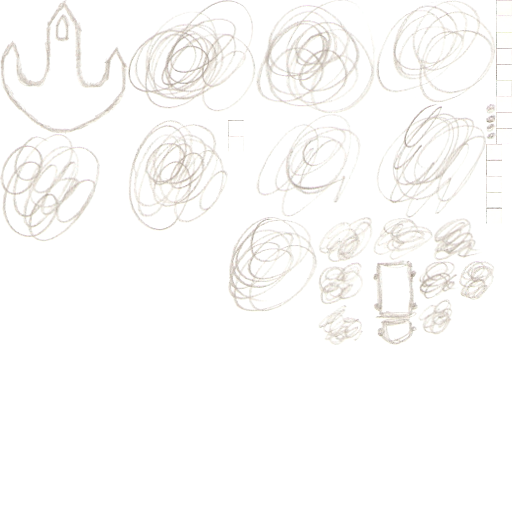
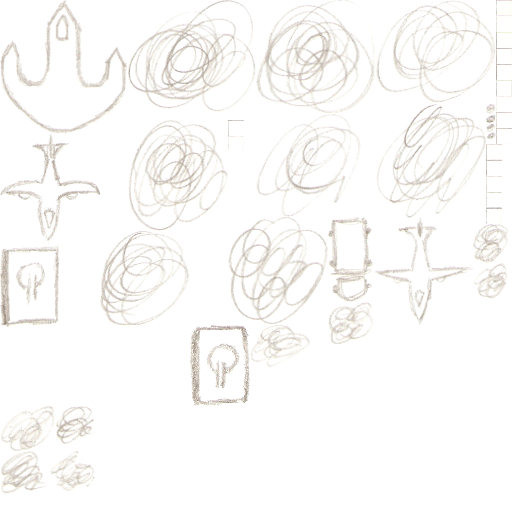
added planes and tanks

diff --git a/lib/src/shared/systems/spawning.dart b/lib/src/shared/systems/spawning.dart
@@ -16,7 +16,7 @@ class BulletSpawningSystem extends EntityProcessingSystem {
     entity.addComponent(new Cooldown(g.cooldown));
     entity.changedInWorld();
     addNewEntity(world, [new Transform.w2d(pos.x, pos.y, 0.0),
-                         new Velocity(0.4, 0.0),
+                         new Velocity(0.3, 0.0),
                          new BodyDef('bullet_${random.nextInt(4)}'),
                          new ExpirationTimer(2000.0),
                          new DestroyOnCollision(),
@@ -64,14 +64,51 @@ class DestructionExplosionSpawningSystem extends EntityProcessingSystem {
 }
 
 class TruckSpawningSystem extends IntervalEntitySystem {
-  TruckSpawningSystem() : super(2000, Aspect.getEmpty());
+  TruckSpawningSystem() : super(5000, Aspect.getEmpty());
 
   void processEntities(_) {
-    addNewEntity(world, [new Transform.w2d(random.nextDouble() * MAX_WIDTH, -20.0, 0.0),
-                         new Velocity(0.1, -PI),
+    addNewEntity(world, [new Transform.w2d(random.nextDouble() * MAX_WIDTH, -20.0, PI),
+                         new Velocity(0.05 + random.nextDouble() * 0.025, -PI),
                          new BodyDef('truck_0'),
+                         new Health(2),
+                         new ExplosionOnDestruction(),
+                         new ExpirationTimer(15000.0)]);
+  }
+}
+
+class PlaneSpawningSystem extends IntervalEntitySystem {
+  bool active = false;
+  PlaneSpawningSystem() : super(6000, Aspect.getEmpty());
+
+  void processEntities(_) {
+    addNewEntity(world, [new Transform.w2d(random.nextDouble() * MAX_WIDTH, -20.0, PI),
+                         new Velocity(0.1 + random.nextDouble() * 0.05, -PI),
+                         new BodyDef('plane_${random.nextInt(2)}'),
                          new Health(3),
                          new ExplosionOnDestruction(),
-                         new ExpirationTimer(10000.0)]);
+                         new ExpirationTimer(15000.0)]);
   }
+  void activate() {
+    active = true;
+  }
+  bool checkProcessing() => active && super.checkProcessing();
+}
+
+class TankSpawningSystem extends IntervalEntitySystem {
+  bool active = false;
+  TankSpawningSystem() : super(7000, Aspect.getEmpty());
+
+  void processEntities(_) {
+    addNewEntity(world, [new Transform.w2d(random.nextDouble() * MAX_WIDTH, -20.0, PI),
+                         new Velocity(0.06 + random.nextDouble() * 0.04, -PI),
+                         new BodyDef('tank_${random.nextInt(2)}'),
+                         new Health(5),
+                         new ExplosionOnDestruction(),
+                         new ExpirationTimer(15000.0)]);
+  }
+
+  void activate() {
+    active = true;
+  }
+  bool checkProcessing() => active && super.checkProcessing();
 }

diff --git a/web/ld27.dart b/web/ld27.dart
@@ -44,7 +44,7 @@ class Game {
     world.addManager(new PlayerManager());
 
     var entity = addNewEntity(world, [new Transform.w2d(MAX_WIDTH/2.0, MAX_HEIGHT - 100.0, 0.0), new Velocity(0.0, 0.0), new BodyDef('ship_0')]);
-    addNewEntity(world, [new Transform.w2d(MAX_WIDTH/2.0, MAX_HEIGHT - 165.0, 0.0), new Velocity(0.0, 0.0), new Gun(1, 500.0)], player: PLAYER_1);
+    addNewEntity(world, [new Transform.w2d(MAX_WIDTH/2.0, MAX_HEIGHT - 170.0, 0.0), new Velocity(0.0, 0.0), new Gun(1, 500.0)], player: PLAYER_1);
 
     tm.register(entity, PLAYER_1);
 
@@ -63,6 +63,8 @@ class Game {
     world.addSystem(new DestructionExplosionSpawningSystem());
     world.addSystem(new BulletSpawningSystem());
     world.addSystem(new TruckSpawningSystem());
+    world.addSystem(new TankSpawningSystem());
+    world.addSystem(new PlaneSpawningSystem());
     world.addSystem(new FeatureActivationSystem(_achievementLoader, _graphicsLoader, sheet, audioManager));
     // Sound
     world.addSystem(new SoundSystem(audioManager));
@@ -70,7 +72,7 @@ class Game {
     world.addSystem(new BackgroundRenderingSystem(canvas.context2D, sheet));
     world.addSystem(new EntityRenderingSystem(canvas.context2D, sheet));
     world.addSystem(new AchievementRenderSystem(canvas.context2D));
-//    world.addSystem(new DebugBodyDefRenderingSystem(canvas.context2D, sheet, bodyDefs));
+//    world.addSystem(new DebugBodyDefRenderingSystem(canvas.context2D, bodyDefs));
 
     world.initialize();
   }

diff --git a/lib/src/client/systems/activation.dart b/lib/src/client/systems/activation.dart
@@ -19,6 +19,8 @@ class FeatureActivationSystem extends IntervalEntitySystem {
     features.add(_achivementFeature);
     features.add(_graphicsUpdateFeature);
     features.add(_soundActivationFeature);
+    features.add(_tankSpawnerActivationFeature);
+    features.add(_planeSpawnerActivationFeature);
 
     nextFeatureIndex = random.nextInt(features.length);
     features[nextFeatureIndex].preparationResult = features[nextFeatureIndex].prepare();
@@ -54,6 +56,16 @@ class FeatureActivationSystem extends IntervalEntitySystem {
     return new Feature('sound', _prepareSoundActivation, _activateSound);
   }
 
+  Feature get _planeSpawnerActivationFeature {
+    return new Feature('planes', _noopPrepare, _activatePlaneSpawner);
+  }
+
+  Feature get _tankSpawnerActivationFeature {
+    return new Feature('tanks', _noopPrepare, _activateTankSpawner);
+  }
+
+  void _noopPrepare() {}
+
   void _activateGraphicsUpdate(Future<SpriteSheet> layerFuture) {
     layerFuture.then((layer) {
       sheet.add(layer);
@@ -86,6 +98,16 @@ class FeatureActivationSystem extends IntervalEntitySystem {
       SoundSystem soundSystem = world.getSystem(SoundSystem);
       soundSystem.activate();
     });
+  }
+
+  void _activatePlaneSpawner(_) {
+    PlaneSpawningSystem system = world.getSystem(PlaneSpawningSystem);
+    system.activate();
+  }
+
+  void _activateTankSpawner(_) {
+    TankSpawningSystem system = world.getSystem(TankSpawningSystem);
+    system.activate();
   }
 }
 
